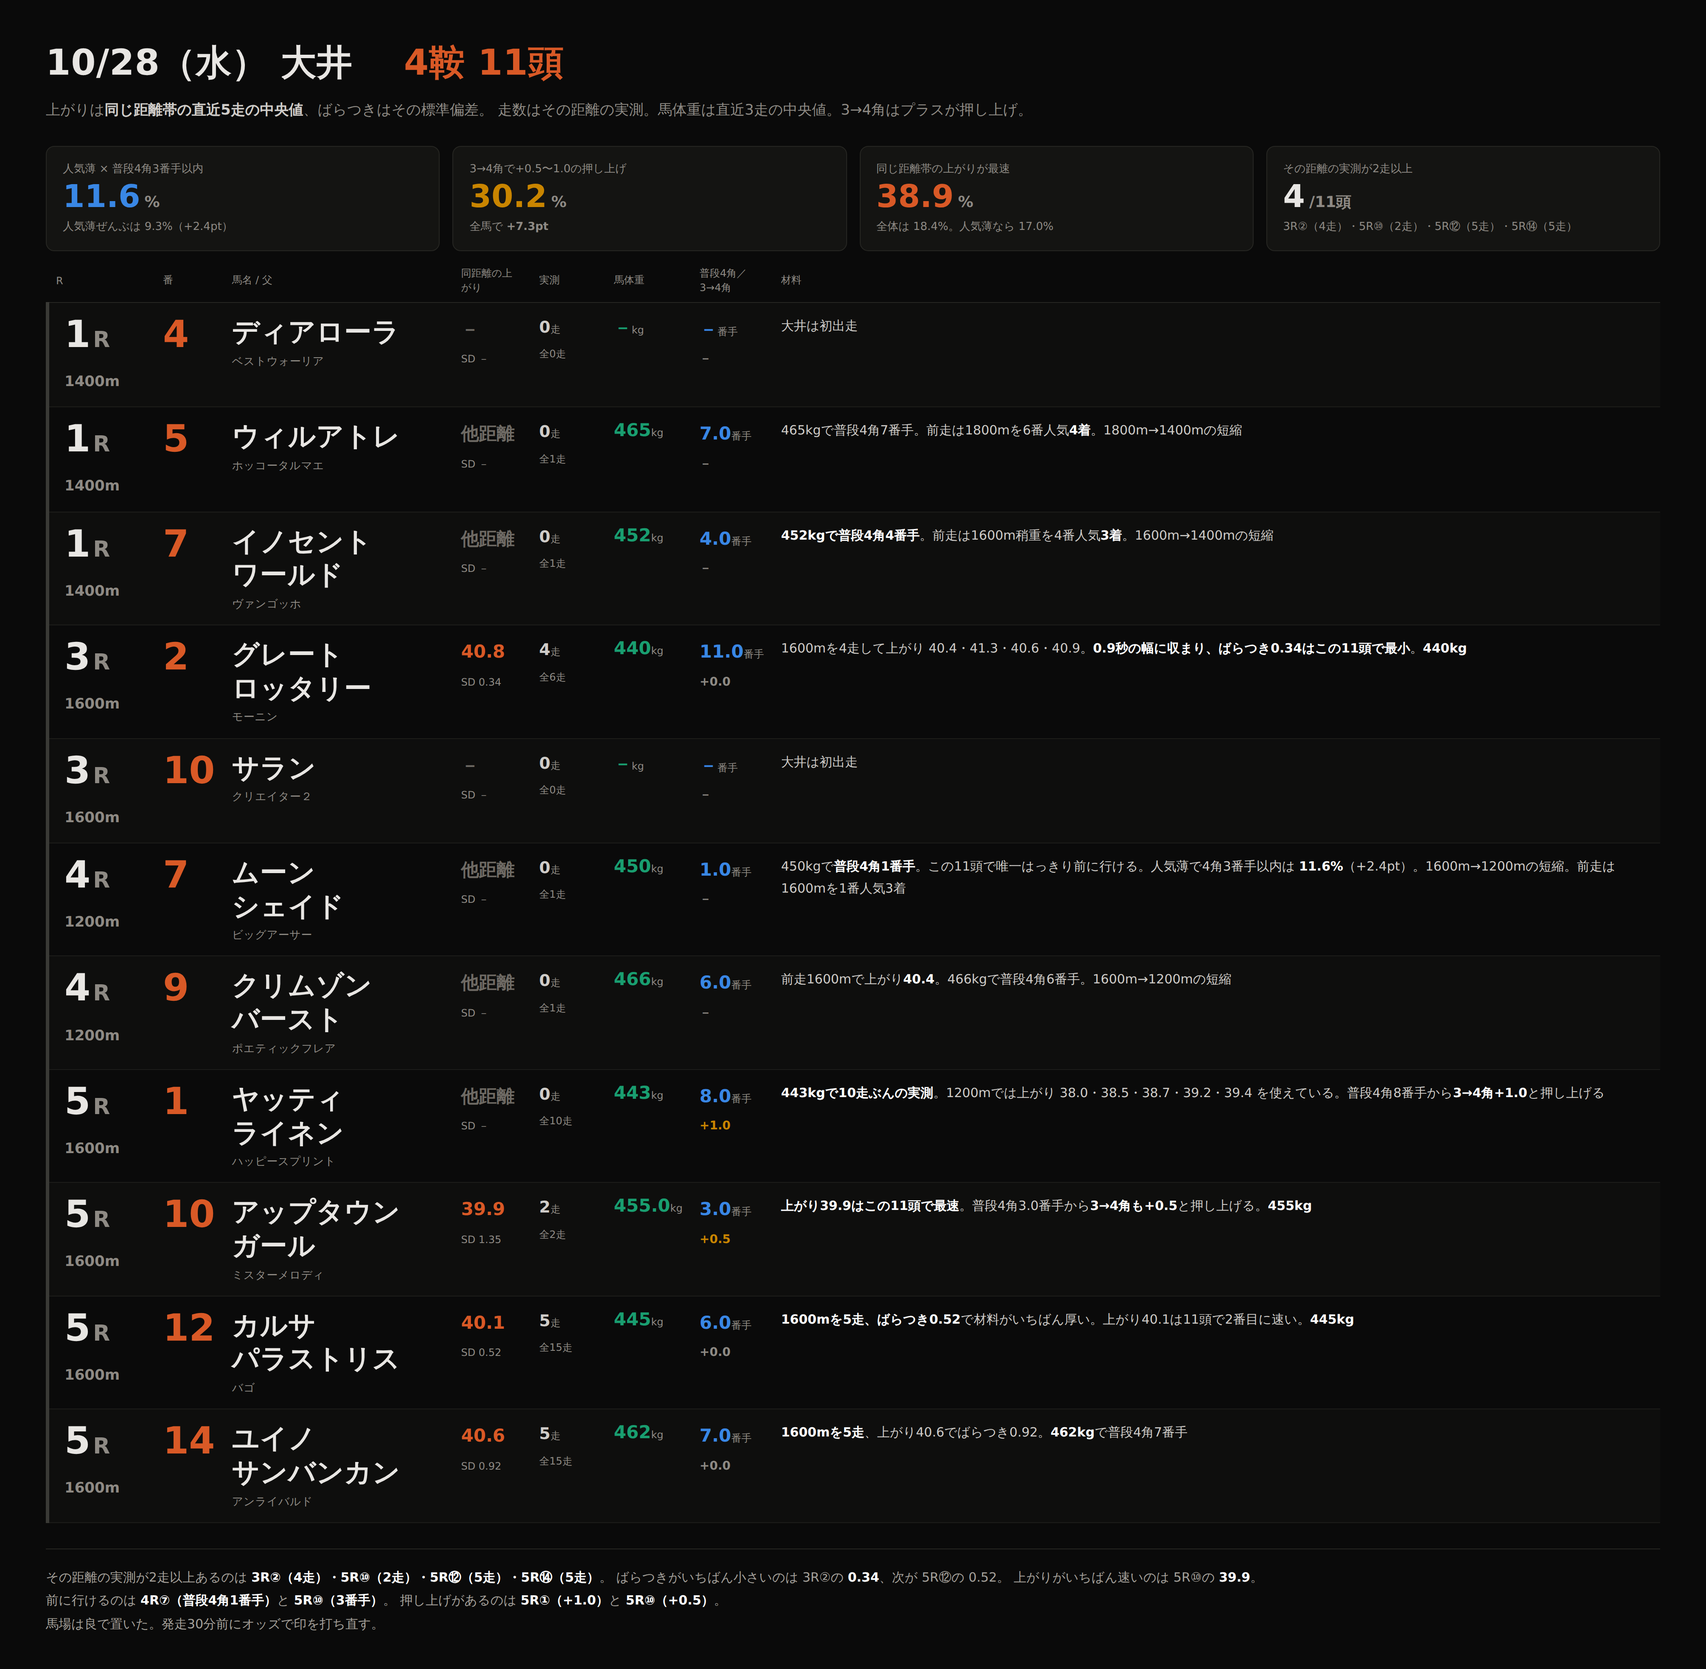
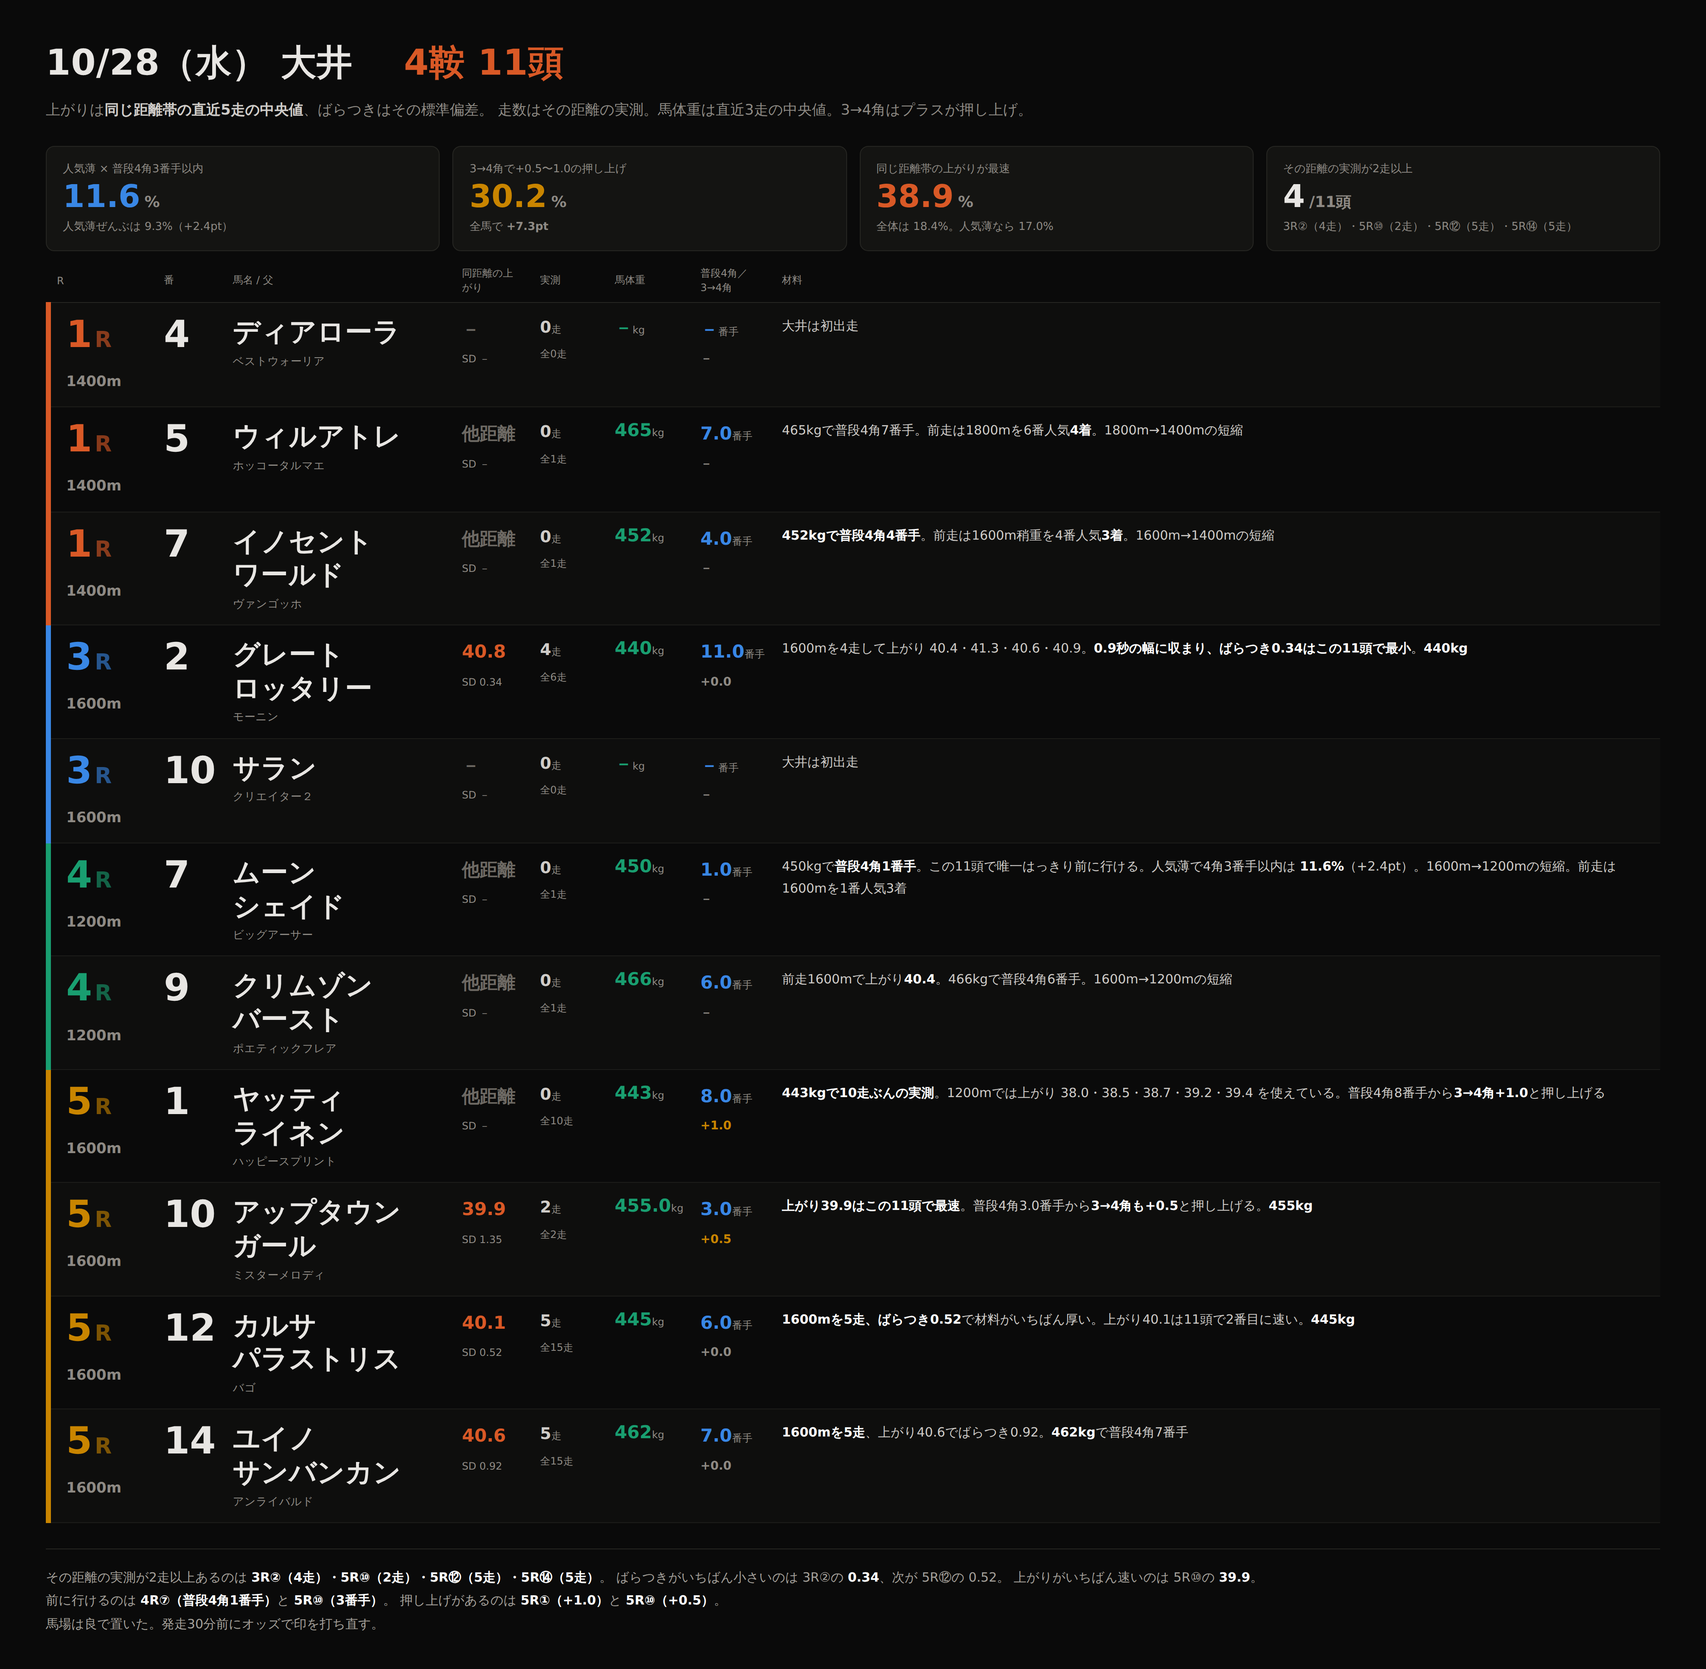
リストのカード：レースごとに色を分ける
1R=オレンジ、3R=青、4R=緑、5R=黄。左の帯とR番号を同じ色にして
レースの切れ目が見えるようにした。馬番は白に戻した。

Claude-Session: https://claude.ai/code/session_01RoHscZkr96FNaxQWvUqgEw

diff --git a/notes/live/2026-10-28/list.html b/notes/live/2026-10-28/list.html
@@ -24,11 +24,11 @@ th{font-size:12px;color:#8e8a84;font-weight:500;text-align:left;padding:0 10px 8
 td{padding:15px 10px;border-bottom:1px solid #1d1d1a;font-size:16px;vertical-align:top}
 tr:nth-child(odd) td{background:#0e0e0d}
 
-.r{width:126px;color:#e8e6e3;font-weight:800;font-size:44px;line-height:1.05;
- border-left:4px solid #3a3a36;padding-left:18px;font-variant-numeric:tabular-nums}
-.rr{font-size:26px;color:#8e8a84;margin-left:3px}
+.r{width:126px;color:var(--rc);font-weight:800;font-size:44px;line-height:1.05;
+ border-left:6px solid var(--rc);padding-left:18px;font-variant-numeric:tabular-nums}
+.rr{font-size:26px;color:var(--rc);opacity:.6;margin-left:3px}
 .dm{display:inline-block;margin-top:9px;font-size:17px;color:#8e8a84;font-weight:600}
-.u{width:76px;font-weight:800;font-size:44px;color:#d95926;line-height:1.05;
+.u{width:76px;font-weight:800;font-size:44px;color:#e8e6e3;line-height:1.05;
  font-variant-numeric:tabular-nums}
 .nm{width:270px;font-weight:800;font-size:32px;line-height:1.24;
  letter-spacing:.01em}
@@ -80,7 +80,7 @@ footer b{color:#fff} footer .hl{color:#ff8a5c;font-weight:700}
 <table><thead><tr><th>R</th><th>番</th><th>馬名 / 父</th>
 <th>同距離の上がり</th><th>実測</th><th>馬体重</th><th>普段4角／3→4角</th>
 <th>材料</th></tr></thead>
-<tbody><tr><td class=r>1<span class=rr>R</span><br><span class=dm>1400m</span></td><td class=u>4</td><td class=nm>ディアローラ<span class=si>ベストウォーリア</span></td><td class="ag dim">－<br><span class=un>SD －</span></td><td class=sm>0<span class=un>走</span><br><span class=un>全0走</span></td><td class=wtc>－<span class=un>kg</span></td><td class=poc>－<span class=un>番手</span><br><span class="gn">－</span></td><td class=why>大井は初出走</td></tr><tr><td class=r>1<span class=rr>R</span><br><span class=dm>1400m</span></td><td class=u>5</td><td class=nm>ウィルアトレ<span class=si>ホッコータルマエ</span></td><td class="ag dim"><span class=w>他距離</span><br><span class=un>SD －</span></td><td class=sm>0<span class=un>走</span><br><span class=un>全1走</span></td><td class=wtc>465<span class=un>kg</span></td><td class=poc>7.0<span class=un>番手</span><br><span class="gn">－</span></td><td class=why>465kgで普段4角7番手。前走は1800mを6番人気<b>4着</b>。1800m→1400mの短縮</td></tr><tr><td class=r>1<span class=rr>R</span><br><span class=dm>1400m</span></td><td class=u>7</td><td class=nm>イノセント<br>ワールド<span class=si>ヴァンゴッホ</span></td><td class="ag dim"><span class=w>他距離</span><br><span class=un>SD －</span></td><td class=sm>0<span class=un>走</span><br><span class=un>全1走</span></td><td class=wtc>452<span class=un>kg</span></td><td class=poc>4.0<span class=un>番手</span><br><span class="gn">－</span></td><td class=why><b>452kgで普段4角4番手</b>。前走は1600m稍重を4番人気<b>3着</b>。1600m→1400mの短縮</td></tr><tr><td class=r>3<span class=rr>R</span><br><span class=dm>1600m</span></td><td class=u>2</td><td class=nm>グレート<br>ロッタリー<span class=si>モーニン</span></td><td class="ag">40.8<br><span class=un>SD 0.34</span></td><td class=sm>4<span class=un>走</span><br><span class=un>全6走</span></td><td class=wtc>440<span class=un>kg</span></td><td class=poc>11.0<span class=un>番手</span><br><span class="gn">+0.0</span></td><td class=why>1600mを4走して上がり 40.4・41.3・40.6・40.9。<b>0.9秒の幅に収まり、ばらつき0.34はこの11頭で最小</b>。<b>440kg</b></td></tr><tr><td class=r>3<span class=rr>R</span><br><span class=dm>1600m</span></td><td class=u>10</td><td class=nm>サラン<span class=si>クリエイター２</span></td><td class="ag dim">－<br><span class=un>SD －</span></td><td class=sm>0<span class=un>走</span><br><span class=un>全0走</span></td><td class=wtc>－<span class=un>kg</span></td><td class=poc>－<span class=un>番手</span><br><span class="gn">－</span></td><td class=why>大井は初出走</td></tr><tr><td class=r>4<span class=rr>R</span><br><span class=dm>1200m</span></td><td class=u>7</td><td class=nm>ムーン<br>シェイド<span class=si>ビッグアーサー</span></td><td class="ag dim"><span class=w>他距離</span><br><span class=un>SD －</span></td><td class=sm>0<span class=un>走</span><br><span class=un>全1走</span></td><td class=wtc>450<span class=un>kg</span></td><td class=poc>1.0<span class=un>番手</span><br><span class="gn">－</span></td><td class=why>450kgで<b>普段4角1番手</b>。この11頭で唯一はっきり前に行ける。人気薄で4角3番手以内は <b>11.6%</b>（+2.4pt）。1600m→1200mの短縮。前走は1600mを1番人気3着</td></tr><tr><td class=r>4<span class=rr>R</span><br><span class=dm>1200m</span></td><td class=u>9</td><td class=nm>クリムゾン<br>バースト<span class=si>ポエティックフレア</span></td><td class="ag dim"><span class=w>他距離</span><br><span class=un>SD －</span></td><td class=sm>0<span class=un>走</span><br><span class=un>全1走</span></td><td class=wtc>466<span class=un>kg</span></td><td class=poc>6.0<span class=un>番手</span><br><span class="gn">－</span></td><td class=why>前走1600mで上がり<b>40.4</b>。466kgで普段4角6番手。1600m→1200mの短縮</td></tr><tr><td class=r>5<span class=rr>R</span><br><span class=dm>1600m</span></td><td class=u>1</td><td class=nm>ヤッティ<br>ライネン<span class=si>ハッピースプリント</span></td><td class="ag dim"><span class=w>他距離</span><br><span class=un>SD －</span></td><td class=sm>0<span class=un>走</span><br><span class=un>全10走</span></td><td class=wtc>443<span class=un>kg</span></td><td class=poc>8.0<span class=un>番手</span><br><span class="gn up">+1.0</span></td><td class=why><b>443kgで10走ぶんの実測</b>。1200mでは上がり 38.0・38.5・38.7・39.2・39.4 を使えている。普段4角8番手から<b>3→4角+1.0</b>と押し上げる</td></tr><tr><td class=r>5<span class=rr>R</span><br><span class=dm>1600m</span></td><td class=u>10</td><td class=nm>アップタウン<br>ガール<span class=si>ミスターメロディ</span></td><td class="ag">39.9<br><span class=un>SD 1.35</span></td><td class=sm>2<span class=un>走</span><br><span class=un>全2走</span></td><td class=wtc>455.0<span class=un>kg</span></td><td class=poc>3.0<span class=un>番手</span><br><span class="gn up">+0.5</span></td><td class=why><b>上がり39.9はこの11頭で最速</b>。普段4角3.0番手から<b>3→4角も+0.5</b>と押し上げる。<b>455kg</b></td></tr><tr><td class=r>5<span class=rr>R</span><br><span class=dm>1600m</span></td><td class=u>12</td><td class=nm>カルサ<br>パラストリス<span class=si>バゴ</span></td><td class="ag">40.1<br><span class=un>SD 0.52</span></td><td class=sm>5<span class=un>走</span><br><span class=un>全15走</span></td><td class=wtc>445<span class=un>kg</span></td><td class=poc>6.0<span class=un>番手</span><br><span class="gn">+0.0</span></td><td class=why><b>1600mを5走、ばらつき0.52</b>で材料がいちばん厚い。上がり40.1は11頭で2番目に速い。<b>445kg</b></td></tr><tr><td class=r>5<span class=rr>R</span><br><span class=dm>1600m</span></td><td class=u>14</td><td class=nm>ユイノ<br>サンバンカン<span class=si>アンライバルド</span></td><td class="ag">40.6<br><span class=un>SD 0.92</span></td><td class=sm>5<span class=un>走</span><br><span class=un>全15走</span></td><td class=wtc>462<span class=un>kg</span></td><td class=poc>7.0<span class=un>番手</span><br><span class="gn">+0.0</span></td><td class=why><b>1600mを5走</b>、上がり40.6でばらつき0.92。<b>462kg</b>で普段4角7番手</td></tr></tbody></table>
+<tbody><tr style="--rc:#d95926"><td class=r>1<span class=rr>R</span><br><span class=dm>1400m</span></td><td class=u>4</td><td class=nm>ディアローラ<span class=si>ベストウォーリア</span></td><td class="ag dim">－<br><span class=un>SD －</span></td><td class=sm>0<span class=un>走</span><br><span class=un>全0走</span></td><td class=wtc>－<span class=un>kg</span></td><td class=poc>－<span class=un>番手</span><br><span class="gn">－</span></td><td class=why>大井は初出走</td></tr><tr style="--rc:#d95926"><td class=r>1<span class=rr>R</span><br><span class=dm>1400m</span></td><td class=u>5</td><td class=nm>ウィルアトレ<span class=si>ホッコータルマエ</span></td><td class="ag dim"><span class=w>他距離</span><br><span class=un>SD －</span></td><td class=sm>0<span class=un>走</span><br><span class=un>全1走</span></td><td class=wtc>465<span class=un>kg</span></td><td class=poc>7.0<span class=un>番手</span><br><span class="gn">－</span></td><td class=why>465kgで普段4角7番手。前走は1800mを6番人気<b>4着</b>。1800m→1400mの短縮</td></tr><tr style="--rc:#d95926"><td class=r>1<span class=rr>R</span><br><span class=dm>1400m</span></td><td class=u>7</td><td class=nm>イノセント<br>ワールド<span class=si>ヴァンゴッホ</span></td><td class="ag dim"><span class=w>他距離</span><br><span class=un>SD －</span></td><td class=sm>0<span class=un>走</span><br><span class=un>全1走</span></td><td class=wtc>452<span class=un>kg</span></td><td class=poc>4.0<span class=un>番手</span><br><span class="gn">－</span></td><td class=why><b>452kgで普段4角4番手</b>。前走は1600m稍重を4番人気<b>3着</b>。1600m→1400mの短縮</td></tr><tr style="--rc:#3987e5"><td class=r>3<span class=rr>R</span><br><span class=dm>1600m</span></td><td class=u>2</td><td class=nm>グレート<br>ロッタリー<span class=si>モーニン</span></td><td class="ag">40.8<br><span class=un>SD 0.34</span></td><td class=sm>4<span class=un>走</span><br><span class=un>全6走</span></td><td class=wtc>440<span class=un>kg</span></td><td class=poc>11.0<span class=un>番手</span><br><span class="gn">+0.0</span></td><td class=why>1600mを4走して上がり 40.4・41.3・40.6・40.9。<b>0.9秒の幅に収まり、ばらつき0.34はこの11頭で最小</b>。<b>440kg</b></td></tr><tr style="--rc:#3987e5"><td class=r>3<span class=rr>R</span><br><span class=dm>1600m</span></td><td class=u>10</td><td class=nm>サラン<span class=si>クリエイター２</span></td><td class="ag dim">－<br><span class=un>SD －</span></td><td class=sm>0<span class=un>走</span><br><span class=un>全0走</span></td><td class=wtc>－<span class=un>kg</span></td><td class=poc>－<span class=un>番手</span><br><span class="gn">－</span></td><td class=why>大井は初出走</td></tr><tr style="--rc:#199e70"><td class=r>4<span class=rr>R</span><br><span class=dm>1200m</span></td><td class=u>7</td><td class=nm>ムーン<br>シェイド<span class=si>ビッグアーサー</span></td><td class="ag dim"><span class=w>他距離</span><br><span class=un>SD －</span></td><td class=sm>0<span class=un>走</span><br><span class=un>全1走</span></td><td class=wtc>450<span class=un>kg</span></td><td class=poc>1.0<span class=un>番手</span><br><span class="gn">－</span></td><td class=why>450kgで<b>普段4角1番手</b>。この11頭で唯一はっきり前に行ける。人気薄で4角3番手以内は <b>11.6%</b>（+2.4pt）。1600m→1200mの短縮。前走は1600mを1番人気3着</td></tr><tr style="--rc:#199e70"><td class=r>4<span class=rr>R</span><br><span class=dm>1200m</span></td><td class=u>9</td><td class=nm>クリムゾン<br>バースト<span class=si>ポエティックフレア</span></td><td class="ag dim"><span class=w>他距離</span><br><span class=un>SD －</span></td><td class=sm>0<span class=un>走</span><br><span class=un>全1走</span></td><td class=wtc>466<span class=un>kg</span></td><td class=poc>6.0<span class=un>番手</span><br><span class="gn">－</span></td><td class=why>前走1600mで上がり<b>40.4</b>。466kgで普段4角6番手。1600m→1200mの短縮</td></tr><tr style="--rc:#c98500"><td class=r>5<span class=rr>R</span><br><span class=dm>1600m</span></td><td class=u>1</td><td class=nm>ヤッティ<br>ライネン<span class=si>ハッピースプリント</span></td><td class="ag dim"><span class=w>他距離</span><br><span class=un>SD －</span></td><td class=sm>0<span class=un>走</span><br><span class=un>全10走</span></td><td class=wtc>443<span class=un>kg</span></td><td class=poc>8.0<span class=un>番手</span><br><span class="gn up">+1.0</span></td><td class=why><b>443kgで10走ぶんの実測</b>。1200mでは上がり 38.0・38.5・38.7・39.2・39.4 を使えている。普段4角8番手から<b>3→4角+1.0</b>と押し上げる</td></tr><tr style="--rc:#c98500"><td class=r>5<span class=rr>R</span><br><span class=dm>1600m</span></td><td class=u>10</td><td class=nm>アップタウン<br>ガール<span class=si>ミスターメロディ</span></td><td class="ag">39.9<br><span class=un>SD 1.35</span></td><td class=sm>2<span class=un>走</span><br><span class=un>全2走</span></td><td class=wtc>455.0<span class=un>kg</span></td><td class=poc>3.0<span class=un>番手</span><br><span class="gn up">+0.5</span></td><td class=why><b>上がり39.9はこの11頭で最速</b>。普段4角3.0番手から<b>3→4角も+0.5</b>と押し上げる。<b>455kg</b></td></tr><tr style="--rc:#c98500"><td class=r>5<span class=rr>R</span><br><span class=dm>1600m</span></td><td class=u>12</td><td class=nm>カルサ<br>パラストリス<span class=si>バゴ</span></td><td class="ag">40.1<br><span class=un>SD 0.52</span></td><td class=sm>5<span class=un>走</span><br><span class=un>全15走</span></td><td class=wtc>445<span class=un>kg</span></td><td class=poc>6.0<span class=un>番手</span><br><span class="gn">+0.0</span></td><td class=why><b>1600mを5走、ばらつき0.52</b>で材料がいちばん厚い。上がり40.1は11頭で2番目に速い。<b>445kg</b></td></tr><tr style="--rc:#c98500"><td class=r>5<span class=rr>R</span><br><span class=dm>1600m</span></td><td class=u>14</td><td class=nm>ユイノ<br>サンバンカン<span class=si>アンライバルド</span></td><td class="ag">40.6<br><span class=un>SD 0.92</span></td><td class=sm>5<span class=un>走</span><br><span class=un>全15走</span></td><td class=wtc>462<span class=un>kg</span></td><td class=poc>7.0<span class=un>番手</span><br><span class="gn">+0.0</span></td><td class=why><b>1600mを5走</b>、上がり40.6でばらつき0.92。<b>462kg</b>で普段4角7番手</td></tr></tbody></table>
 <footer>
 その距離の実測が2走以上あるのは <b>3R②（4走）・5R⑩（2走）・5R⑫（5走）・5R⑭（5走）</b>。
 ばらつきがいちばん小さいのは 3R②の <b>0.34</b>、次が 5R⑫の 0.52。

diff --git a/scripts/ana/ooi_list_card.py b/scripts/ana/ooi_list_card.py
@@ -54,7 +54,11 @@ def wrap(nm):
     return html.escape(nm[:k]) + '<br>' + html.escape(nm[k:])
 
 
-NR = len({p['R'] for p in P})
+RS = sorted({p['R'] for p in P})
+NR = len(RS)
+# レースごとの色（検証ずみの5色から順に）
+PAL = ['#d95926', '#3987e5', '#199e70', '#c98500', '#d55181']
+RCOL = {r: PAL[i % len(PAL)] for i, r in enumerate(RS)}
 
 rows = []
 for p in P:
@@ -66,7 +70,7 @@ for p in P:
     pos = f"{p['pos']:.1f}" if p['pos'] is not None else '－'
     g = f"{p['gain']:+.1f}" if p['gain'] is not None else '－'
     rows.append(
-      f'<tr><td class=r>{p["R"]}<span class=rr>R</span>'
+      f'<tr style="--rc:{RCOL[p["R"]]}"><td class=r>{p["R"]}<span class=rr>R</span>'
       f'<br><span class=dm>{p["dist"]}m</span></td>'
       f'<td class=u>{p["u"]}</td>'
       f'<td class=nm>{wrap(p["nm"])}<span class=si>{html.escape(p["sire"])}</span></td>'
@@ -104,11 +108,11 @@ th{{font-size:12px;color:#8e8a84;font-weight:500;text-align:left;padding:0 10px 
 td{{padding:15px 10px;border-bottom:1px solid #1d1d1a;font-size:16px;vertical-align:top}}
 tr:nth-child(odd) td{{background:#0e0e0d}}
 
-.r{{width:126px;color:#e8e6e3;font-weight:800;font-size:44px;line-height:1.05;
- border-left:4px solid #3a3a36;padding-left:18px;font-variant-numeric:tabular-nums}}
-.rr{{font-size:26px;color:#8e8a84;margin-left:3px}}
+.r{{width:126px;color:var(--rc);font-weight:800;font-size:44px;line-height:1.05;
+ border-left:6px solid var(--rc);padding-left:18px;font-variant-numeric:tabular-nums}}
+.rr{{font-size:26px;color:var(--rc);opacity:.6;margin-left:3px}}
 .dm{{display:inline-block;margin-top:9px;font-size:17px;color:#8e8a84;font-weight:600}}
-.u{{width:76px;font-weight:800;font-size:44px;color:#d95926;line-height:1.05;
+.u{{width:76px;font-weight:800;font-size:44px;color:#e8e6e3;line-height:1.05;
  font-variant-numeric:tabular-nums}}
 .nm{{width:270px;font-weight:800;font-size:32px;line-height:1.24;
  letter-spacing:.01em}}
